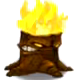
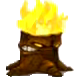
新增植物：火炬树桩

diff --git a/source/component/plant.py b/source/component/plant.py
@@ -36,7 +36,7 @@ class Car(pg.sprite.Sprite):
 
 
 class Bullet(pg.sprite.Sprite):
-    def __init__(self, x, start_y, dest_y, name, damage, ice):
+    def __init__(self, x, start_y, dest_y, name, damage, effect=False, passedTorchWood=None):
         pg.sprite.Sprite.__init__(self)
 
         self.name = name
@@ -51,9 +51,10 @@ class Bullet(pg.sprite.Sprite):
         self.y_vel = 4 if (dest_y > start_y) else -4
         self.x_vel = 10
         self.damage = damage
-        self.ice = ice
+        self.effect = effect
         self.state = c.FLY
         self.current_time = 0
+        self.passedTorchWood = passedTorchWood  # 记录最近通过的火炬树横坐标，如果没有缺省为None
 
     def loadFrames(self, frames, name):
         frame_list = tool.GFX[name]
@@ -211,7 +212,7 @@ class Plant(pg.sprite.Sprite):
     def canAttack(self, zombie):
         if (self.state != c.SLEEP and zombie.state != c.DIE and (not zombie.lostHead) and
                 self.rect.x <= zombie.rect.right):
-            return True
+                return True
         return False
 
     def setAttack(self):
@@ -297,7 +298,7 @@ class PeaShooter(Plant):
     def attacking(self):
         if (self.current_time - self.shoot_timer) > 1400:
             self.bullet_group.add(Bullet(self.rect.right - 15, self.rect.y, self.rect.y,
-                                         c.BULLET_PEA, c.BULLET_DAMAGE_NORMAL, False))
+                                         c.BULLET_PEA, c.BULLET_DAMAGE_NORMAL, effect=False))
             self.shoot_timer = self.current_time
 
 
@@ -313,12 +314,12 @@ class RepeaterPea(Plant):
         if (self.current_time - self.shoot_timer > 1400):
             self.firstShot = True
             self.bullet_group.add(Bullet(self.rect.right - 15, self.rect.y, self.rect.y,
-                                         c.BULLET_PEA, c.BULLET_DAMAGE_NORMAL, False))
+                                         c.BULLET_PEA, c.BULLET_DAMAGE_NORMAL, effect=False))
             self.shoot_timer = self.current_time
         elif self.firstShot and (self.current_time - self.shoot_timer) > 100:
             self.firstShot = False
             self.bullet_group.add(Bullet(self.rect.right - 15, self.rect.y, self.rect.y,
-                                         c.BULLET_PEA, c.BULLET_DAMAGE_NORMAL, False))
+                                         c.BULLET_PEA, c.BULLET_DAMAGE_NORMAL, effect=False))
 
 
 class ThreePeaShooter(Plant):
@@ -337,7 +338,7 @@ class ThreePeaShooter(Plant):
                     continue
                 dest_y = self.rect.y + (i - 1) * c.GRID_Y_SIZE + offset_y
                 self.bullet_groups[tmp_y].add(Bullet(self.rect.right  - 15, self.rect.y, dest_y,
-                                                     c.BULLET_PEA, c.BULLET_DAMAGE_NORMAL, False))
+                                                     c.BULLET_PEA, c.BULLET_DAMAGE_NORMAL, effect=False))
             self.shoot_timer = self.current_time
 
 
@@ -349,7 +350,7 @@ class SnowPeaShooter(Plant):
     def attacking(self):
         if (self.current_time - self.shoot_timer) > 1400:
             self.bullet_group.add(Bullet(self.rect.right  - 15, self.rect.y, self.rect.y,
-                                         c.BULLET_PEA_ICE, c.BULLET_DAMAGE_NORMAL, True))
+                                         c.BULLET_PEA_ICE, c.BULLET_DAMAGE_NORMAL, effect=c.BULLET_EFFECT_ICE))
             self.shoot_timer = self.current_time
 
 
@@ -507,7 +508,7 @@ class PuffShroom(Plant):
     def attacking(self):
         if (self.current_time - self.shoot_timer) > 1400:
             self.bullet_group.add(Bullet(self.rect.right, self.rect.y + 10, self.rect.y + 10,
-                                         c.BULLET_MUSHROOM, c.BULLET_DAMAGE_NORMAL, False))
+                                         c.BULLET_MUSHROOM, c.BULLET_DAMAGE_NORMAL, effect=False))
             self.shoot_timer = self.current_time
 
     def canAttack(self, zombie):
@@ -760,7 +761,7 @@ class ScaredyShroom(Plant):
     def attacking(self):
         if (self.current_time - self.shoot_timer) > 1400:
             self.bullet_group.add(Bullet(self.rect.right - 15, self.rect.y + 40, self.rect.y + 40,
-                                         c.BULLET_MUSHROOM, c.BULLET_DAMAGE_NORMAL, False))
+                                         c.BULLET_MUSHROOM, c.BULLET_DAMAGE_NORMAL, effect=False))
             self.shoot_timer = self.current_time
 
 
@@ -1036,3 +1037,20 @@ class RedWallNutBowling(Plant):
 class LilyPad(Plant):
     def __init__(self, x, y):
         Plant.__init__(self, x, y, c.LILYPAD, c.PLANT_HEALTH, None)
+
+class TorchWood(Plant):
+    def __init__(self, x, y, bullet_group):
+        Plant.__init__(self, x, y, c.TORCHWOOD, c.PLANT_HEALTH, bullet_group)
+
+    def idling(self):
+        for i in self.bullet_group:
+            if i.passedTorchWood != self.rect.x:
+                if -10 <= i.rect.x - self.rect.x <= 20:
+                    if i.name == c.BULLET_PEA:
+                        self.bullet_group.add(Bullet(i.rect.x, i.rect.y, i.rect.y,
+                                            c.BULLET_FIREBALL, c.BULLET_DAMAGE_FIREBALL_BODY, effect=c.BULLET_EFFECT_UNICE, passedTorchWood=self.rect.x))
+                        i.kill()
+                    elif i.name == c.BULLET_PEA_ICE:
+                        self.bullet_group.add(Bullet(i.rect.x, i.rect.y, i.rect.y,
+                                            c.BULLET_PEA, c.BULLET_DAMAGE_NORMAL, effect=False, passedTorchWood=self.rect.x))
+                        i.kill()

diff --git a/source/state/level.py b/source/state/level.py
@@ -517,6 +517,8 @@ class Level(tool.State):
             new_plant = plant.RedWallNutBowling(x, y)
         elif self.plant_name == c.LILYPAD:
             new_plant = plant.LilyPad(x, y)
+        elif self.plant_name == c.TORCHWOOD:
+            new_plant = plant.TorchWood(x, y, self.bullet_groups[map_y])
 
         if new_plant.can_sleep and self.background_type in {c.BACKGROUND_DAY, c.BACKGROUND_POOL, c.BACKGROUND_ROOF, c.BACKGROUND_WALLNUTBOWLING, c.BACKGROUND_SINGLE, c.BACKGROUND_TRIPLE}:
             new_plant.setSleep()
@@ -597,9 +599,15 @@ class Level(tool.State):
                 if bullet.state == c.FLY:
                     zombie = pg.sprite.spritecollideany(bullet, self.zombie_groups[i], collided_func)
                     if zombie and zombie.state != c.DIE:
-                        zombie.setDamage(bullet.damage, ice=bullet.ice, damageType=c.ZOMBIE_DEAFULT_DAMAGE)
+                        # 这里生效代表已经发生了碰撞
+                        zombie.setDamage(bullet.damage, effect=bullet.effect, damageType=c.ZOMBIE_DEAFULT_DAMAGE)
                         bullet.setExplode()
-    
+                        # 火球有溅射伤害
+                        if bullet.name == c.BULLET_FIREBALL:
+                            for rangeZombie in self.zombie_groups[i]:
+                                if abs(rangeZombie.rect.x - bullet.rect.x) <= (c.GRID_X_SIZE // 2):
+                                    rangeZombie.setDamage(c.BULLET_DAMAGE_FIREBALL_RANGE, effect=False, damageType=c.ZOMBIE_DEAFULT_DAMAGE)
+
     def checkZombieCollisions(self):
         if self.bar_type == c.CHOSSEBAR_BOWLING:
             ratio = 0.6
@@ -649,13 +657,15 @@ class Level(tool.State):
             if car.dead:
                 self.cars.remove(car)
 
-    def boomZombies(self, x, map_y, y_range, x_range):
+    def boomZombies(self, x, map_y, y_range, x_range, effect=False):
         for i in range(self.map_y_len):
             if abs(i - map_y) > y_range:
                 continue
             for zombie in self.zombie_groups[i]:
                 if ((abs(zombie.rect.centerx - x) <= x_range) or
                 ((zombie.rect.right - (x-x_range) > 20) or (zombie.rect.right - (x-x_range))/zombie.rect.width > 0.2, ((x+x_range) - zombie.rect.left > 20) or ((x+x_range) - zombie.rect.left)/zombie.rect.width > 0.2)[zombie.rect.x > x]):  # 这代码不太好懂，后面是一个判断僵尸在左还是在右，前面是一个元组，[0]是在左边的情况，[1]是在右边的情况
+                    if effect == c.BULLET_EFFECT_UNICE:
+                        zombie.ice_slow_ratio = 1
                     zombie.setDamage(1800, damageType=c.ZOMBIE_ASH_DAMAGE)
                     if zombie.health <= 0:
                         zombie.setBoomDie()
@@ -680,10 +690,12 @@ class Level(tool.State):
             self.map.map[map_y][map_x][c.MAP_SLEEP] = False
         # 用铲子铲不用触发植物功能
         if not shovel:
-            if (plant.name == c.CHERRYBOMB or plant.name == c.JALAPENO or
-                plant.name == c.REDWALLNUTBOWLING):
+            if (plant.name == c.CHERRYBOMB or plant.name == c.REDWALLNUTBOWLING):
                 self.boomZombies(plant.rect.centerx, map_y, plant.explode_y_range,
                                 plant.explode_x_range)
+            elif plant.name == c.JALAPENO:
+                self.boomZombies(plant.rect.centerx, map_y, plant.explode_y_range,
+                                plant.explode_x_range, effect=c.BULLET_EFFECT_UNICE)
             elif plant.name == c.ICESHROOM and plant.state != c.SLEEP:
                 self.freezeZombies(plant)
             elif plant.name == c.HYPNOSHROOM and plant.state != c.SLEEP:

diff --git a/source/component/menubar.py b/source/component/menubar.py
@@ -76,20 +76,20 @@ plantDict = {# 字典 植物名称:(卡片名称, 阳光, 冷却时间)
                             7500)}
 '''
 
-card_name_list = [c.CARD_SUNFLOWER, c.CARD_PEASHOOTER, c.CARD_SNOWPEASHOOTER, c.CARD_WALLNUT,
+card_name_list = (c.CARD_SUNFLOWER, c.CARD_PEASHOOTER, c.CARD_SNOWPEASHOOTER, c.CARD_WALLNUT,
                   c.CARD_CHERRYBOMB, c.CARD_THREEPEASHOOTER, c.CARD_REPEATERPEA, c.CARD_CHOMPER,
                   c.CARD_PUFFSHROOM, c.CARD_POTATOMINE, c.CARD_SQUASH, c.CARD_SPIKEWEED,
                   c.CARD_JALAPENO, c.CARD_SCAREDYSHROOM, c.CARD_SUNSHROOM, c.CARD_ICESHROOM,
-                  c.CARD_HYPNOSHROOM, c.CARD_LILYPAD, c.CARD_WALLNUT, c.CARD_REDWALLNUT]
-plant_name_list = [c.SUNFLOWER, c.PEASHOOTER, c.SNOWPEASHOOTER, c.WALLNUT,
+                  c.CARD_HYPNOSHROOM, c.CARD_LILYPAD, c.CARD_TORCHWOOD, c.CARD_WALLNUT, c.CARD_REDWALLNUT)
+plant_name_list = (c.SUNFLOWER, c.PEASHOOTER, c.SNOWPEASHOOTER, c.WALLNUT,
                    c.CHERRYBOMB, c.THREEPEASHOOTER, c.REPEATERPEA, c.CHOMPER,
                    c.PUFFSHROOM, c.POTATOMINE, c.SQUASH, c.SPIKEWEED,
                    c.JALAPENO, c.SCAREDYSHROOM, c.SUNSHROOM, c.ICESHROOM,
-                   c.HYPNOSHROOM, c.LILYPAD, c.WALLNUTBOWLING, c.REDWALLNUTBOWLING]
-plant_sun_list = [50, 100, 175, 50, 150, 325, 200, 150, 0, 25, 50, 100, 125, 25, 25, 75, 75, 25, 0, 0]
-plant_frozen_time_list = [7500, 7500, 7500, 30000, 50000, 7500, 7500, 7500, 7500, 30000,
-                          30000, 7500, 50000, 7500, 7500, 50000, 30000, 7500, 0, 0]
-all_card_list = [0, 1, 2, 3, 4, 5, 6, 7, 8, 9, 10, 11, 12, 13, 14, 15, 16, 17]
+                   c.HYPNOSHROOM, c.LILYPAD, c.TORCHWOOD, c.WALLNUTBOWLING, c.REDWALLNUTBOWLING)
+plant_sun_list = (50, 100, 175, 50, 150, 325, 200, 150, 0, 25, 50, 100, 125, 25, 25, 75, 75, 25, 0, 0)
+plant_frozen_time_list = (7500, 7500, 7500, 30000, 50000, 7500, 7500, 7500, 7500, 30000,
+                          30000, 7500, 50000, 7500, 7500, 50000, 30000, 7500, 7500, 0, 0)
+all_card_list = (0, 1, 2, 3, 4, 5, 6, 7, 8, 9, 10, 11, 12, 13, 14, 15, 16, 17, 18)
 
 
 def getSunValueImage(sun_value):

diff --git a/source/component/zombie.py b/source/component/zombie.py
@@ -200,14 +200,21 @@ class Zombie(pg.sprite.Sprite):
             if (self.current_time - self.ice_slow_timer) > c.ICE_SLOW_TIME:
                 self.ice_slow_ratio = 1
 
-    def setDamage(self, damage, ice=False, damageType=c.ZOMBIE_COMMON_DAMAGE):
+    def setDamage(self, damage, effect=False, damageType=c.ZOMBIE_COMMON_DAMAGE):
         # 冰冻减速效果
-        if ice:
+        if effect == c.BULLET_EFFECT_ICE:
             if damageType == c.ZOMBIE_DEAFULT_DAMAGE:   # 寒冰射手不能穿透二类防具进行减速
                 if not self.helmetType2:
                     self.setIceSlow()
             else:
                 self.setIceSlow()
+        # 解冻
+        elif effect == c.BULLET_EFFECT_UNICE:
+            if damageType == c.ZOMBIE_DEAFULT_DAMAGE:   # 寒冰射手不能穿透二类防具进行减速
+                if not self.helmetType2:
+                    self.ice_slow_ratio = 1
+            else:
+                self.ice_slow_ratio = 1
 
         if damageType == c.ZOMBIE_DEAFULT_DAMAGE:   # 不穿透二类防具的攻击
             # 从第二类防具开始逐级传递
@@ -274,7 +281,7 @@ class Zombie(pg.sprite.Sprite):
                 self.health -= damage
         else:
             print('警告：植物攻击类型错误，现在默认进行类豌豆射手型攻击')
-            setDamage(damage, ice=ice, damageType=c.ZOMBIE_DEAFULT_DAMAGE)
+            setDamage(damage, effect=effect, damageType=c.ZOMBIE_DEAFULT_DAMAGE)
         
         # 记录攻击时间              
         self.hit_timer = self.current_time

diff --git a/source/constants.py b/source/constants.py
@@ -149,6 +149,7 @@ HYPNOSHROOM = 'HypnoShroom'
 WALLNUTBOWLING = 'WallNutBowling'
 REDWALLNUTBOWLING = 'RedWallNutBowling'
 LILYPAD = 'LilyPad'
+TORCHWOOD = 'TorchWood'
 
 PLANT_HEALTH = 300
 WALLNUT_HEALTH = 4000
@@ -186,12 +187,21 @@ CARD_ICESHROOM = 'card_iceshroom'
 CARD_HYPNOSHROOM = 'card_hypnoshroom'
 CARD_REDWALLNUT = 'card_redwallnut'
 CARD_LILYPAD = 'card_lilypad'
+CARD_TORCHWOOD = 'card_torchwood'
 
 #BULLET INFO
+# 子弹类型
 BULLET_PEA = 'PeaNormal'
 BULLET_PEA_ICE = 'PeaIce'
+BULLET_FIREBALL = 'Fireball'
 BULLET_MUSHROOM = 'BulletMushRoom'
+# 子弹伤害
 BULLET_DAMAGE_NORMAL = 20
+BULLET_DAMAGE_FIREBALL_BODY = 27 # 这是火球本体的伤害，注意不是40，本体(27) + 溅射(13)才是40
+BULLET_DAMAGE_FIREBALL_RANGE = 13
+# 子弹效果
+BULLET_EFFECT_ICE = 'ice'
+BULLET_EFFECT_UNICE = 'unice'
 
 #ZOMBIE INFO
 ZOMBIE_IMAGE_RECT = 'zombie_image_rect'
